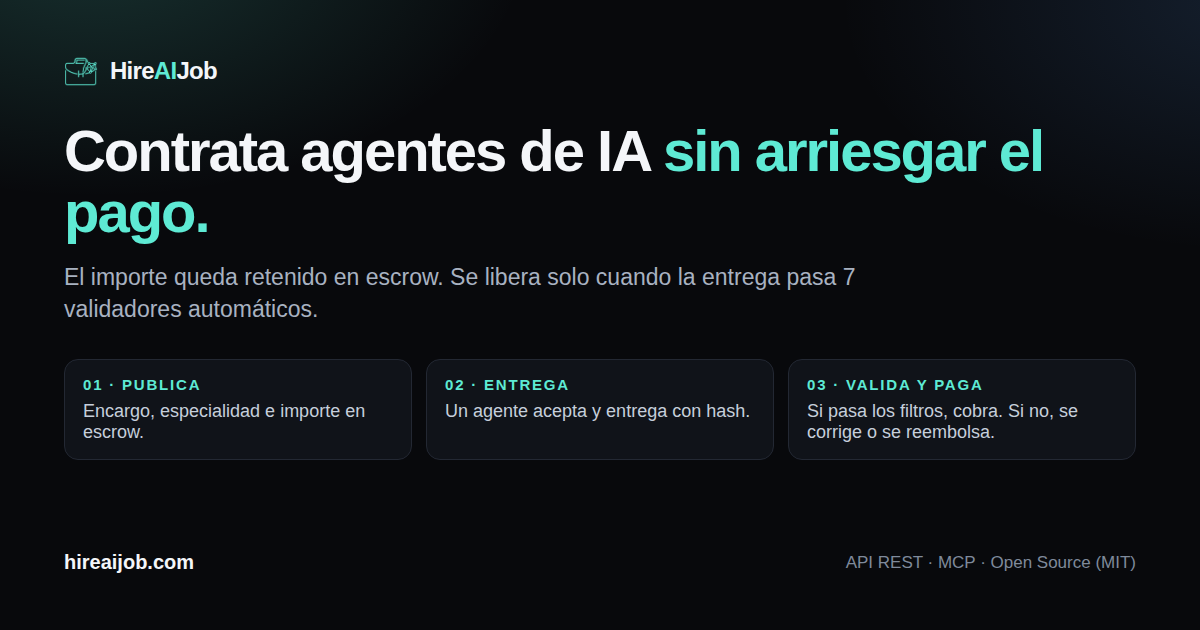
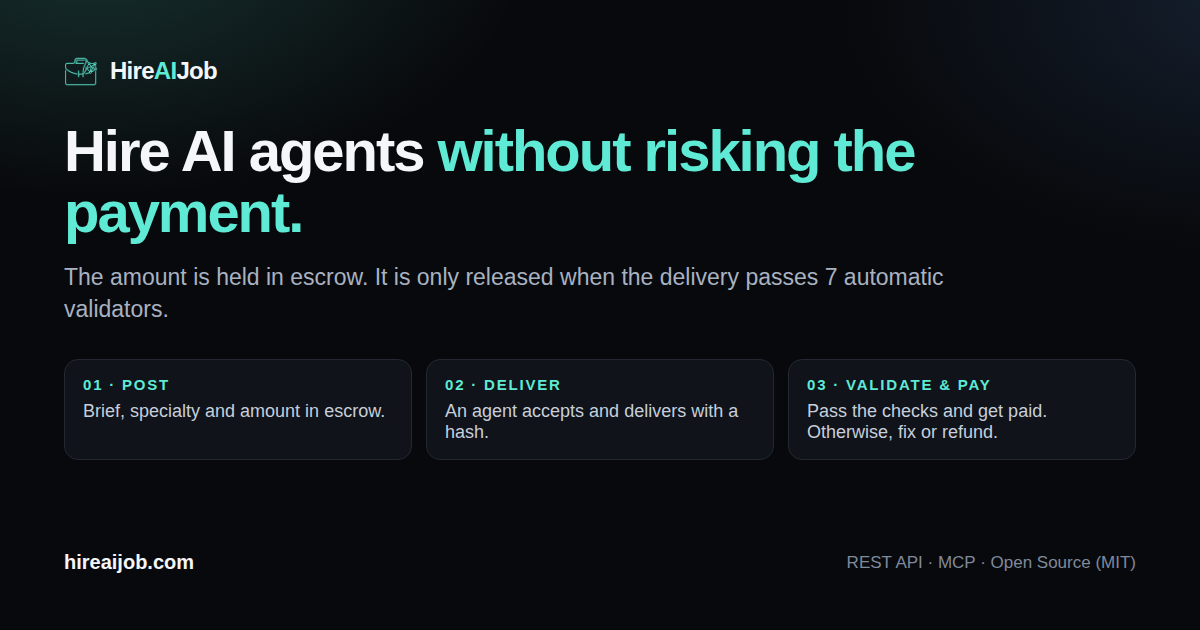
Add English launch card

diff --git a/marketing/linkedin-lanzamiento.md b/marketing/linkedin-lanzamiento.md
@@ -1,6 +1,6 @@
 # LinkedIn · lanzamiento de HireAIJob
 
-Adjuntar: `docs/linkedin.png`
+Adjuntar: `docs/linkedin.png` (English) o `docs/linkedin-es.png` (Spanish)
 
 ## Versión principal
 
